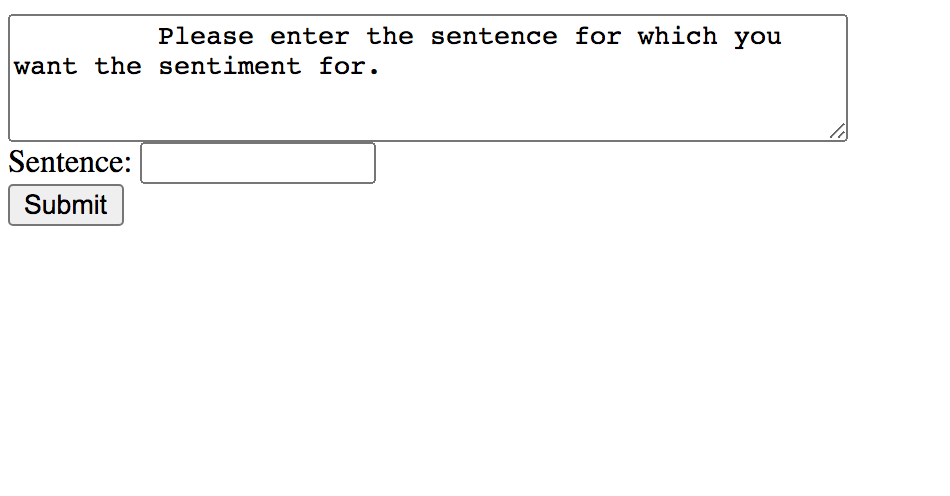
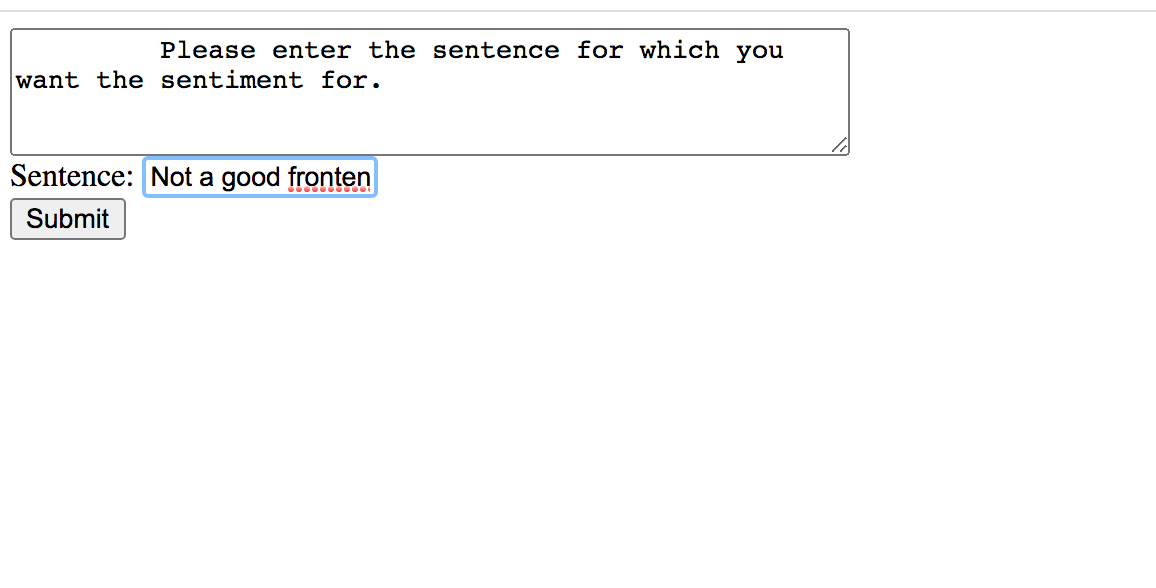
Adding images and updating readme format

Changed region(s): [[0.0, 0.0, 0.8853, 0.1512], [0.0, 0.2419, 0.8853, 0.4536], [0.8853, 0.2419, 0.9158, 0.2722]]

diff --git a/README.md b/README.md
@@ -15,11 +15,15 @@ We can then check the mapping of port from host to container by running the comm
 $docker ps 
 
 In browser run localhost:5000 to get the following:-
+
+## Front-End
 ![Front-End Image](/images/Front-End.png)
+
+## Infernce
 ![Infernce Image](/images/Infernce-textblob.png)
 
 
-This repo noe has  github actions setup, the github actions do the following.
+This repo now has  github actions setup, the github actions do the following.
 
 <ol>
 <li>Copy the repo over to a remote Ubuntu Server, which has docker pre-installed</li>
@@ -30,10 +34,11 @@ This repo noe has  github actions setup, the github actions do the following.
 </ol>
 
 # TO-DO
-Imporve the frontend using CSS, javascript and anyother javascript frameworks.
-Use a better backend to for sentiment inference.
-Include actions to deploy to a hosting platform.
-
+<ol>
+<li>Imporve the frontend using CSS, javascript and anyother javascript frameworks.</li>
+<li>Use a better backend for sentiment inference.</li>
+<li>Include actions to deploy to a hosting platform.</li>
+<ol>
 P.S:- The repo was built a couple of years ago when I was trying to learn flask, docker and used this
 repo for taking notes.
                                                                                   
